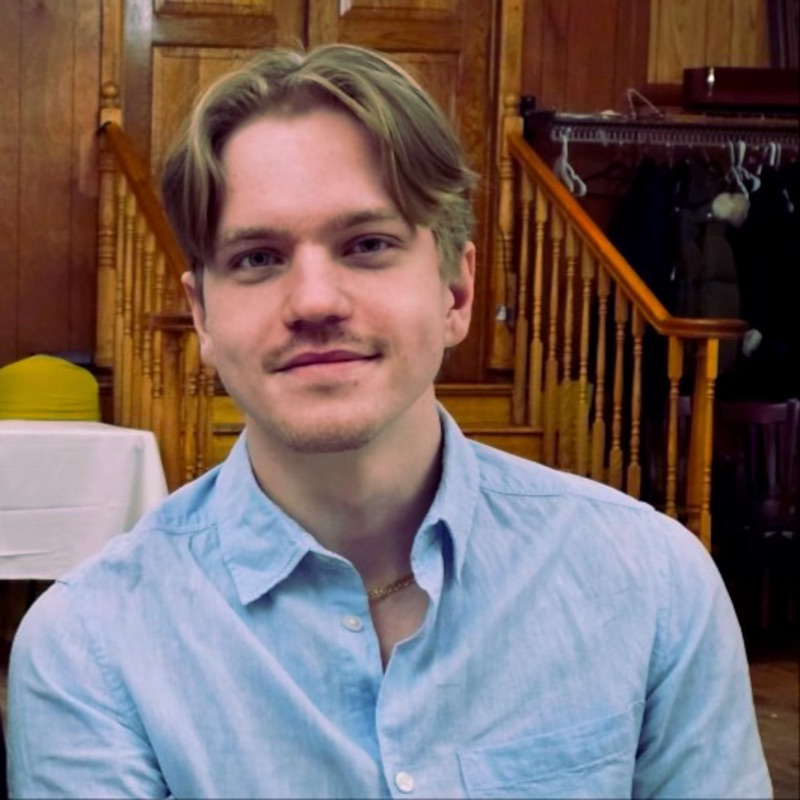
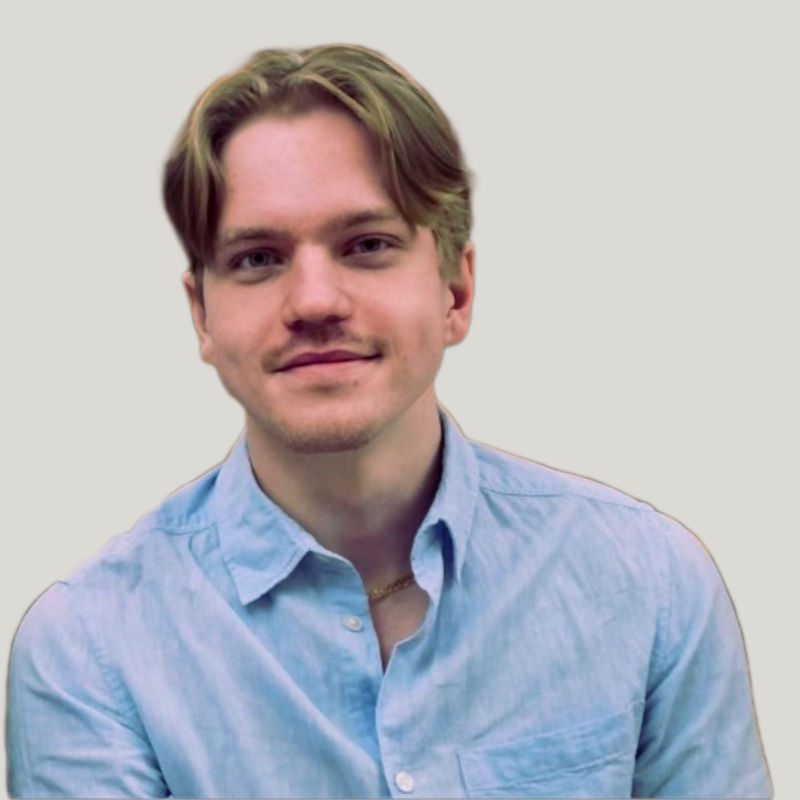
Founders: Brianna and Daniel on a neutral light grey background

diff --git a/index.html b/index.html
@@ -151,8 +151,8 @@
         <h2>Founders<small>Who we are</small></h2>
         <div class="reveal">
           <div class="cards">
-            <div class="card person"><div class="photo"><img src="assets/team/brianna.jpg" alt="Brianna Gabaldon" width="800" height="800" loading="lazy"></div><div class="who"><h3>Brianna Gabaldon</h3><a class="li" href="https://www.linkedin.com/in/brianna-gabaldon-328011149/" rel="noopener" aria-label="Brianna Gabaldon on LinkedIn">in</a></div><span class="role">CEO / Co-founder</span><p class="fine">Product manager on an operating system shipping to 1.4+ billion devices. B.S. Computer Science; M.S. Global Security, Conflict and Cybercrime (NYU), thesis on human factors in cyber risk. Ethical Tech CoLab advisor.</p></div>
-            <div class="card person"><div class="photo"><img src="assets/team/daniel.jpg" alt="Daniel Vitenko" width="800" height="800" loading="lazy"></div><div class="who"><h3>Daniel Vitenko</h3><a class="li" href="https://www.linkedin.com/in/daniel-vitenko/" rel="noopener" aria-label="Daniel Vitenko on LinkedIn">in</a></div><span class="role">CTO / Co-founder</span><p class="fine">B.S. Computational Mathematics; M.S. Quantum Science. Graduate research in large-scale RQC behavior and Fermi gas simulations.</p></div>
+            <div class="card person"><div class="photo"><img src="assets/team/brianna.jpg?v=2" alt="Brianna Gabaldon" width="800" height="800" loading="lazy"></div><div class="who"><h3>Brianna Gabaldon</h3><a class="li" href="https://www.linkedin.com/in/brianna-gabaldon-328011149/" rel="noopener" aria-label="Brianna Gabaldon on LinkedIn">in</a></div><span class="role">CEO / Co-founder</span><p class="fine">Product manager on an operating system shipping to 1.4+ billion devices. B.S. Computer Science; M.S. Global Security, Conflict and Cybercrime (NYU), thesis on human factors in cyber risk. Ethical Tech CoLab advisor.</p></div>
+            <div class="card person"><div class="photo"><img src="assets/team/daniel.jpg?v=2" alt="Daniel Vitenko" width="800" height="800" loading="lazy"></div><div class="who"><h3>Daniel Vitenko</h3><a class="li" href="https://www.linkedin.com/in/daniel-vitenko/" rel="noopener" aria-label="Daniel Vitenko on LinkedIn">in</a></div><span class="role">CTO / Co-founder</span><p class="fine">B.S. Computational Mathematics; M.S. Quantum Science. Graduate research in large-scale RQC behavior and Fermi gas simulations.</p></div>
             <div class="card person"><div class="photo"><img src="assets/team/carolina.jpg" alt="Carolina Pernambuco Moron" width="800" height="800" loading="lazy"></div><div class="who"><h3>Carolina Pernambuco Moron</h3><a class="li" href="https://www.linkedin.com/in/carolina-pernambuco-moron/" rel="noopener" aria-label="Carolina Pernambuco Moron on LinkedIn">in</a></div><span class="role">CPO / Co-founder</span><p class="fine">B.S. International Business; M.S. Global Economy with a specialization in Data Analytics; M.S. Global Security, Conflict and Cybercrime (NYU).</p></div>
           </div>
           <p class="fine" style="margin-top:20px">This work builds on <em>The Human Architecture of Cyber Risk: How Micro-Businesses Operate Beyond Conventional Frameworks</em>, M.S. thesis, NYU Center for Global Affairs, April 2026.</p>
